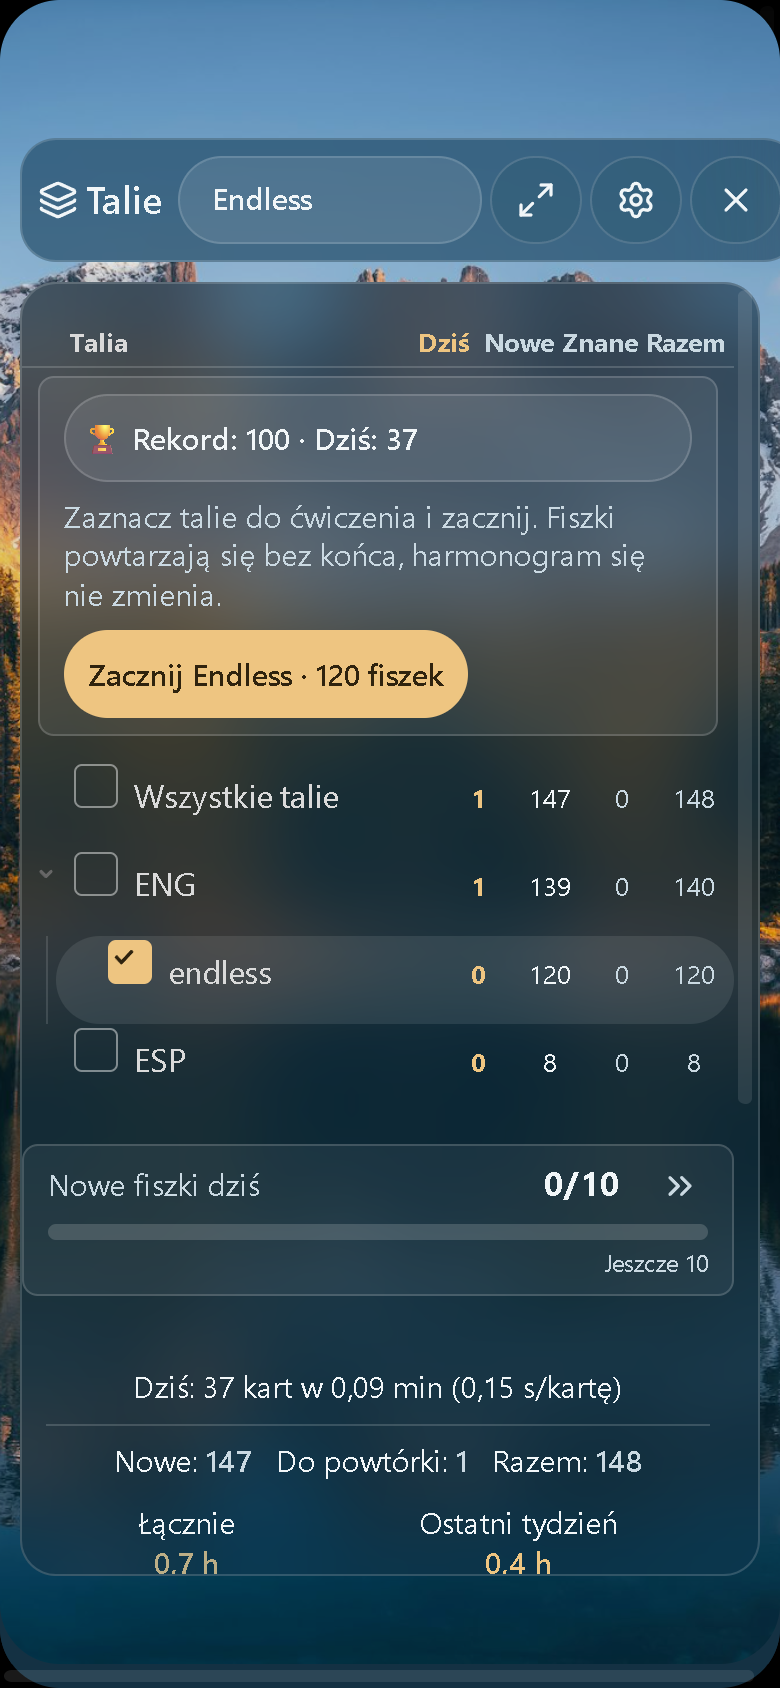
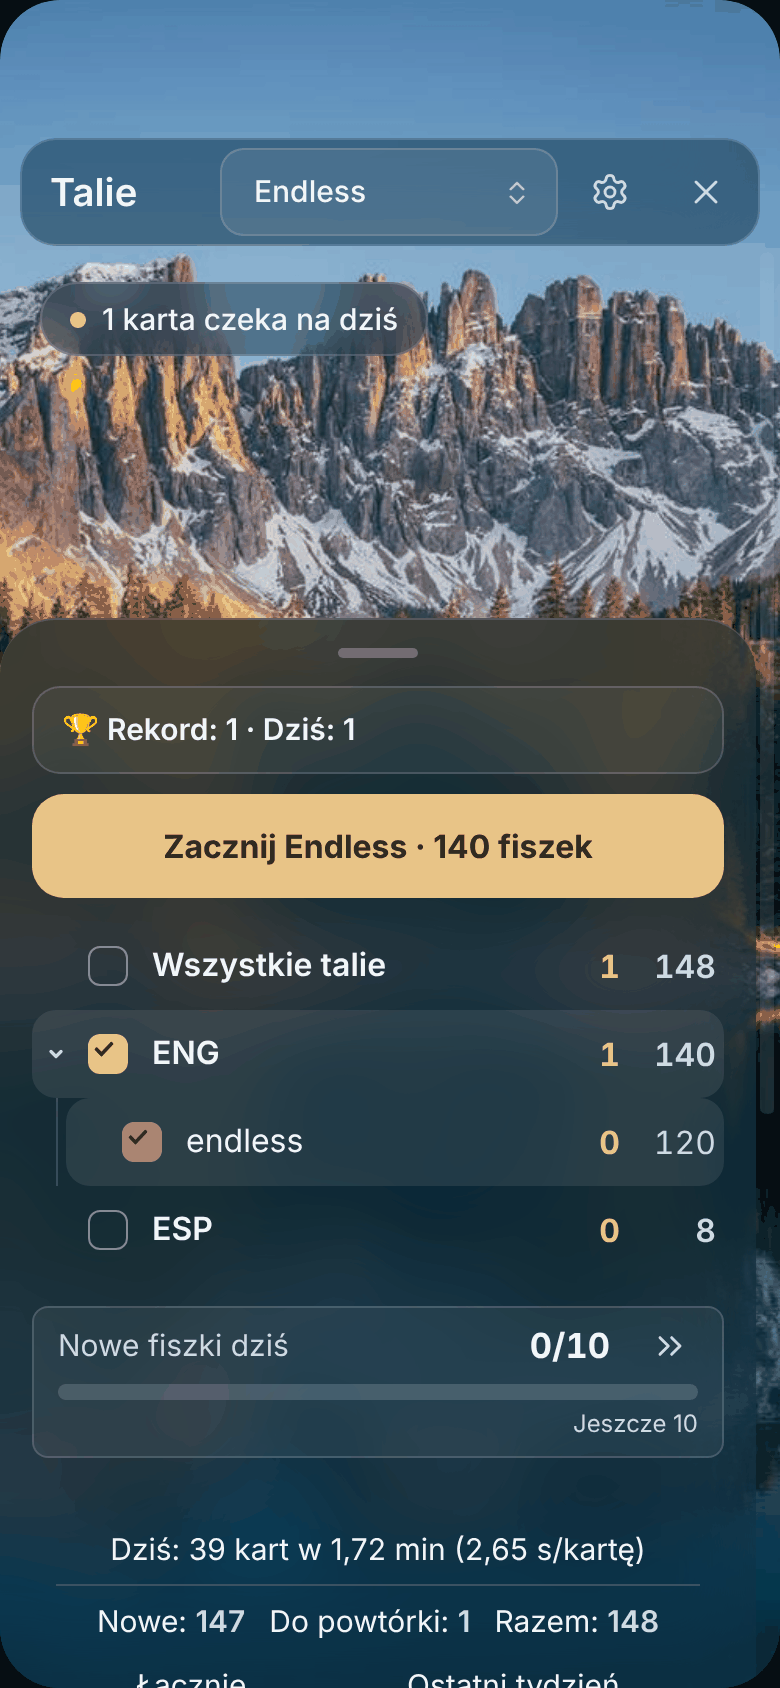
Wydanie 0.9.7: układ telefonu z projektu, poprawki urządzeń, zrzuty z motywem
- Wersja 0.9.7 (manifest, package, versions), CHANGELOG-UPGRADED, docs/wydania/0.9.7.md,
  SPEED-STREAK-README (telefon z tłem, brak pełnego ekranu na telefonie).
- Telefon z tłem: bez ciemnych kwadratów za przyciskami nagłówka (rozmycie
  „floating nav” Obsidiana 1.13), pola wyboru Endless w linii z nazwą talii.
- release-screenshots.mjs --tlo=lake|dusk: przebieg z motywem tła.
- docs/screenshots/background-phone.png: nowy układ telefonu.

Claude-Session: https://claude.ai/code/session_01RsSHy5oXhBoopS4QrC1854

diff --git a/styles.css b/styles.css
@@ -1862,6 +1862,8 @@ body.theme-dark {
   height: 44px;
   padding: 0;
   background: transparent !important;
+  -webkit-backdrop-filter: none;
+  backdrop-filter: none;
   border: 0;
   border-radius: 12px;
   box-shadow: none !important;
@@ -1962,6 +1964,7 @@ body.theme-dark {
   display: none;
 }
 .is-phone .usr-bg-on .sr-deck-container .sr-tree-item-row {
+  align-items: center;
   min-height: 48px;
   border-radius: 12px;
   font-size: var(--font-ui-medium);
@@ -3046,6 +3049,7 @@ body:not(.is-mobile)
 }
 .is-mobile .sr-tree-container.is-endless .sr-tree-item-row {
   min-height: 44px;
+  align-items: center;
 }
 .is-mobile .sr-tree-container.is-endless .sr-endless-check {
   width: 22px;

diff --git a/src/appearance/background.css b/src/appearance/background.css
@@ -297,6 +297,9 @@
     height: 44px;
     padding: 0;
     background: transparent !important;
+    /* Obsidian 1.13 "floating nav" blurs behind raised buttons: it drew a dark square */
+    -webkit-backdrop-filter: none;
+    backdrop-filter: none;
     border: 0;
     border-radius: 12px;
     box-shadow: none !important;
@@ -420,6 +423,7 @@
 }
 
 .is-phone .usr-bg-on .sr-deck-container .sr-tree-item-row {
+    align-items: center;
     min-height: 48px;
     border-radius: 12px;
     font-size: var(--font-ui-medium);

diff --git a/src/endless/endless.css b/src/endless/endless.css
@@ -46,6 +46,8 @@
 /* Touch: the whole row ticks the deck; a bigger box and a 44 px row */
 .is-mobile .sr-tree-container.is-endless .sr-tree-item-row {
     min-height: 44px;
+    /* the tick box in line with the deck name */
+    align-items: center;
 }
 
 .is-mobile .sr-tree-container.is-endless .sr-endless-check {

diff --git a/docs/wydania/0.9.7.md b/docs/wydania/0.9.7.md
@@ -1,0 +1,44 @@
+# Wydanie 0.9.7 — układ telefonu z projektu i poprawki urządzeń (podsumowanie dla przyszłych sesji)
+
+Poprzednie: [0.9.6](0.9.6.md). Zmiany widoczne dla użytkowniczki: `CHANGELOG-UPGRADED.md`, sekcja `## 0.9.7`.
+
+## Dlaczego
+
+Użytkowniczka przysłała zrzuty projektu z Claude Design (`Upgraded Spaced Repetition — wygląd 0.9.5`, https://claude.ai/artifact/Mc97nbrzpgDXuCfrb21EF7 — 10 ekranów „Dzień”/„Noc”, komputer i telefon) i poprosiła o 0.9.7: „napraw błędy i spraw zgodność urządzeń”, ładnie dla oka. Wartości (odstępy, promienie, wysokości przycisków) wzięte wprost z plików `project/*.dc.html` tego projektu.
+
+## Co weszło
+
+- **Telefon + motyw tła** (`background.css`, sekcja „Phone deck list”, tylko `orientation: portrait`): `.sr-scroll-wrapper` przewija całość, `.sr-content` to panel od dołu (`margin-top: clamp(90px, 22vh, 200px)`, promień 28 px, uchwyt `::before`), nad nim `.usr-due-pill` („N kart czeka na dziś”, element w `deck-list.tsx`, tekst `bgCount("DUE_WAITING")` z odmianą). Na telefonie z tłem ukryte kolumny „Nowe”/„Znane” i wiersz nagłówków (liczby mają `aria-label`), ukryty opis Endless, przycisk startu na całą szerokość. Modal dostaje `padding-bottom: 0` przez `:has()` — panel sięga pod pasek iPhone'a (bez `:has()` zostaje tylko odstęp na dole).
+- **Nagłówek z tłem wystawał 20 px**: `.sr-deck-list-header` ma `width: 100%`, a pod `.usr-bg-on` dostawał `margin: 10px` → ucięty „Zamknij” i poziomy pasek przewijania (też na komputerze). Teraz `width: auto`.
+- **Pełny ekran ukryty na telefonie** (`modal-view.css`, `.is-phone #sr-modal-view .sr-fullscreen-button`) — komenda dalej działa.
+- **Przyciski nagłówka na telefonie z tłem**: 44 px, przezroczyste; Obsidian 1.13 z `is-floating-nav` daje `.mod-raised` `backdrop-filter: var(--raised-blur)` — to rysowało ciemne kwadraty, wyłączone.
+- **Przyciski ocen**: `flex: 1 1 0` (równe), na telefonie odstęp `--size-4-2`; z tłem 60 px / 66 px na telefonie, promień 16/18 px, `padding-inline: 10px`.
+- **Fokus na „Ponownie”** (`card-container.tsx`): `focus()` tylko gdy nie mobile — na dotyku zostawała biała ramka.
+- **Jasny motyw + tło**: nazwy talii to elementy drzewa (`--nav-item-color` = `#5c5c5c` w moonstone) — nadpisane zmienne `--nav-*` pod `.usr-bg-on`.
+- **Krótka fiszka z tłem** (`.sr-card-centered`): czcionka ×1,5, ścieżka jako mały podpis wersalikami, kreska 72 px.
+- **Odmiana po polsku**: `src/lang/plural.ts` (czysta logika + testy `tests/unit/lang/plural.test.ts`): tłumaczenie `one:…|few:…|many:…|other:…` + `Intl.PluralRules`, liczby przez `Intl.NumberFormat` (przecinek). `tCount()` w `src/lang/helpers.ts`. Nowe klucze `MINUTES_STR_IVL`, `HOURS_STR_IVL` (+ `_MOBILE`) — koniec z „hr” na sztywno. Angielski bez zmian (testy stare przechodzą).
+- **Przecinek dziesiętny w Speed Streak** (`decimal()` w `speed-streak-controller.ts`).
+- **`dev-vault/_config/data.json` w gicie**: `.gitignore` miał `data.json`, więc plik startowy nigdy nie trafił do repo i `dev-vault-install.mjs` bez `--bez-danych` się wywracał. Dodany wyjątek `!dev-vault/_config/data.json` i odtworzony plik (tagi `#ENG`/`#ESP`, reguły czytania).
+- **`scripts/release-screenshots.mjs --tlo=lake|dusk`**: drugi przebieg z motywem tła (zapisywany, bo `emulateMobile` przeładowuje plugin), wynik w `Claude outputs/zrzuty/<wersja>-<motyw>/`, na koniec przywraca poprzedni motyw.
+
+## Środowisko (ważne na przyszłość)
+
+Ta sesja była w chmurze (Linux, bez Windowsa). Prawdziwy Obsidian działa tu tak:
+
+1. AppImage z GitHuba (`obsidian.md` jest zablokowany przez proxy, `github.com/obsidianmd/obsidian-releases/releases/download/v1.13.4/Obsidian-1.13.4.AppImage` działa), `--appimage-extract`.
+2. `~/.config/obsidian/obsidian.json` z vaultem `dev-vault` (`"open": true`).
+3. `Xvfb :99` i `DISPLAY=:99 ./squashfs-root/obsidian --no-sandbox --disable-gpu --remote-debugging-port=9222`.
+4. Przez CDP: kliknąć „Trust author and enable plugins”, `localStorage.language = "pl"`, przeładować.
+5. Dalej `node scripts/release-screenshots.mjs <wersja>` bez zmian (tytuł okna „… - dev-vault - Obsidian 1.13.4” pasuje).
+
+## Zrzuty
+
+- Robocze (przed/po, oba motywy, telefon/iPad/komputer, jasny i ciemny): w scratchpadzie sesji, najważniejsze porównane z projektem.
+- Wydanie: `node scripts/release-screenshots.mjs 0.9.7` (bez tła) i `… 0.9.7 --tlo=dusk` — po 37 zrzutów, **0 błędów w konsoli**, 0 przycisków < 44 px. Uwagi tylko o elementach Obsidiana: `modal-header-button` bez nazwy (okno Opcji) i tag `#ENG` w notatce za oknem w jasnym motywie (4,26:1 — styl motywu moonstone, nie pluginu).
+- `docs/screenshots/background-phone.png` podmieniony (stary pokazywał ucięty „Zamknij” i pasek przewijania).
+
+## Otwarte / na później
+
+- Na komputerze okno ma domyślnie 60% × 60% (ustawienie oryginału) — przy 1024×800 kalendarz jest pod przewijaniem; projekt zakładał panel 600 px dopasowany do treści. Nie zmienione, bo użytkowniczka ma zapisany własny rozmiar okna.
+- Pasek Speed Streak (Fusion i inne style) nie jest przerobiony na wersję z projektu (pierścień + liczba + „Rekord”) — to osobny moduł z własnymi układami.
+- Kalendarz na telefonie z tłem: projekt pokazuje 3 krótkie liczby pod siatką; zostały pełne statystyki kalendarza.

diff --git a/SPEED-STREAK-README.md b/SPEED-STREAK-README.md
@@ -220,7 +220,7 @@ Po ocenie fiszki plugin zapisuje pod nią komentarz `<!--SR:…-->` z datą nast
 
 ## Okno powtórek: pełny ekran i przesuwanie
 
-- Przycisk **⛶** w nagłówku (na liście talii i podczas powtórki) włącza i wyłącza pełny ekran. Możesz też przypisać skrót do komendy „Okno powtórek: pełny ekran wł. / wył.”.
+- Przycisk **⛶** w nagłówku (na liście talii i podczas powtórki) włącza i wyłącza pełny ekran (na telefonie go nie ma — tam okno i tak zajmuje cały ekran). Możesz też przypisać skrót do komendy „Okno powtórek: pełny ekran wł. / wył.”.
 - Okno przesuwasz, chwytając pasek u góry (nagłówek listy talii albo pasek karty) i przeciągając je w dowolne miejsce. Przyciski na pasku działają normalnie.
 - Okno zapamiętuje miejsce do następnego otwarcia. Dwuklik na pasku wyśrodkowuje je z powrotem.
 - Okno nie ucieknie za krawędź ekranu, bo pasek zawsze zostaje widoczny. Pełny ekran nie zmienia zapisanego rozmiaru okna.
@@ -243,7 +243,9 @@ Kolory trzymają się zasady 70/20/10:
 - 20%: tekst i linie w jasnym odcieniu tego samego koloru,
 - 10%: jeden akcent, tylko w kilku miejscach: liczby „Dziś”, cel dzienny, główny przycisk odpowiedzi, piasek w klepsydrze.
 
-Tekst zawsze zostaje czytelny. Przy włączonym tle przyciski odpowiedzi są w jednej rodzinie kolorów: przezroczyste, a tylko „Dobre” (w Endless „Wiem”) ma kolor akcentu. Słowo na karcie jest zapisane książkową czcionką.
+Tekst zawsze zostaje czytelny, także w jasnym motywie Obsidiana. Przy włączonym tle przyciski odpowiedzi są w jednej rodzinie kolorów: przezroczyste kafelki równej szerokości, a tylko „Dobre” (w Endless „Wiem”) ma kolor akcentu. Krótka fiszka (słowo i tłumaczenie) jest zapisana większą, książkową czcionką, z małym podpisem notatki nad nią i krótką kreską między pytaniem a odpowiedzią.
+
+**Na telefonie** (pionowo) lista talii wygląda jak w projekcie: u góry widać zdjęcie i napis „N kart czeka na dziś”, a talie leżą na panelu wysuniętym od dołu — przesuń go palcem w górę, żeby zobaczyć cel dzienny i kalendarz. Przy każdej talii są dwie liczby: na dziś (w kolorze akcentu) i wszystkie karty. W trybie Endless nad taliami jest rekord i duży przycisk „Zacznij Endless”.
 
 ## Tryb Endless
 

diff --git a/CHANGELOG-UPGRADED.md b/CHANGELOG-UPGRADED.md
@@ -3,6 +3,18 @@
 Changes in this fork, on top of [Obsidian Spaced Repetition](https://github.com/st3v3nmw/obsidian-spaced-repetition) 1.15.4.
 The release workflow uses the section whose heading matches the git tag as the release description.
 
+## 0.9.7
+
+The phone layout from the design, and fixes for every device.
+
+- **Phone deck list with a background theme** (as in the design): the photo at the top with "14 cards waiting today", the decks on a sheet that slides up from below (drag it up for the daily goal and the calendar). Two numbers per deck: today (in the accent colour) and all cards. In Endless: the record line and one big "Start Endless" button.
+- **Phone header**: the close button was cut off at the right edge and the window could scroll sideways (with a background theme). The full screen button is gone on phones — the window fills the screen anyway — so "Review mode" fits again. Plain icon buttons on the glass bar, no dark squares behind them.
+- **Answer buttons**: always the same width, so "Again" no longer pushes "Easy" off a narrow screen. With a background theme: rounded tiles, 60 px high (66 px on phones). On phones and tablets the focus ring no longer stays on "Again" after every answer.
+- **Light Obsidian theme with a background photo**: the deck names were dark grey on the dark glass — now light and readable.
+- **Short cards with a background theme**: bigger book-like text, the note path as a small caption above, a short line between question and answer.
+- **Polish**: intervals in proper Polish — "1 dzień", "3 dni", "1,5 dnia", "2 miesiące", "1 rok", "2 godz." (was "1 dni", "2 hr"); the Speed Streak timer uses a decimal comma ("7,9").
+- Tick boxes in Endless are in line with the deck names on touch devices.
+
 ## 0.9.6
 
 Two ready background themes instead of picking a photo.
